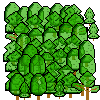
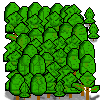
0.036

diff --git a/Garden-alpha/core/src/com/mygdx/game/Forest.java b/Garden-alpha/core/src/com/mygdx/game/Forest.java
@@ -4,12 +4,12 @@ import com.badlogic.gdx.graphics.Texture;
 import com.badlogic.gdx.math.Rectangle;
 import com.badlogic.gdx.math.Vector2;
 
-public class Forest extends Resourse {
-    public Forest(Texture img, int width, int height, int countOfResourse, Vector2 position) {
+public class Forest extends Resource {
+    public Forest(Texture img, int width, int height, int countOfResource, Vector2 position) {
         this.img = img;
-        this.countOfResourse = countOfResourse;
+        this.countOfResource = countOfResource;
         this.position = new Vector2((position.x - (width / 2)),(position.y - (height / 2)));
-        rectangle = new Rectangle(this.position.x,this.position.y,this.img.getWidth(),this.img.getHeight());
+        this.rectangle = new Rectangle(this.position.x,this.position.y,this.img.getWidth(),this.img.getHeight());
 
     }
 

diff --git a/Garden-alpha/core/src/com/mygdx/game/Resource.java b/Garden-alpha/core/src/com/mygdx/game/Resource.java
@@ -1,0 +1,35 @@
+package com.mygdx.game;
+
+import com.badlogic.gdx.graphics.Texture;
+import com.badlogic.gdx.math.Rectangle;
+import com.badlogic.gdx.math.Vector2;
+
+public class Resource {
+    Texture img;
+    int countOfResource;
+    Vector2 position;
+    Rectangle rectangle;
+    public Resource(){
+
+    }
+
+    public Texture getImg() {
+        return img;
+    }
+
+    public Vector2 getPosition() {
+        return position;
+    }
+    public void setPosition(Vector2 pos){
+        this.position = new Vector2(pos);
+        this.update();
+    }
+    public Rectangle getRectangle(){
+        return this.rectangle;
+    }
+
+    public void update(){
+        this.rectangle.setPosition(this.position.x + Garden.screenXPosition,
+                this.position.y + Garden.screenYPosition);
+    }
+}

diff --git a/Garden-alpha/core/src/com/mygdx/game/Garden.java b/Garden-alpha/core/src/com/mygdx/game/Garden.java
@@ -1,6 +1,6 @@
 /*****************************************************
  *---------------------------------------------------*
- *               version - 0.035    @Stable          *
+ *               version - 0.036    @Stable          *
  *        created      by   Ki11qwerty               *
  *        disigner     -    Killqwerty               *
  *        codeWriter   -    Killqwerty               *
@@ -8,6 +8,7 @@
  *---------------------------------------------------*
  *               latest upDate -                     *
  *                                                   *
+ * 0.036 fix forest position & created random pos    *
  * 0.035 start creating resourses... test forest     *
  * textures                                          *
  * 0.034 fix bugs with ghostConstruct &              *

diff --git a/Garden-alpha/core/src/com/mygdx/game/wtf.java b/Garden-alpha/core/src/com/mygdx/game/wtf.java
@@ -5,6 +5,17 @@ import com.badlogic.gdx.Gdx;
 
 public class wtf extends ApplicationAdapter {
     public static  void main(String[] args){
+        WTF2 wtf2 = new WTF2();
 
+    }
+}
+class WTF2{
+    WTF2(){
+        System.out.println("внутри конструктора");
+        prt();
+
+    }
+    public void prt(){
+        System.out.println("вызов метода прям блять из конструктора");
     }
 }
